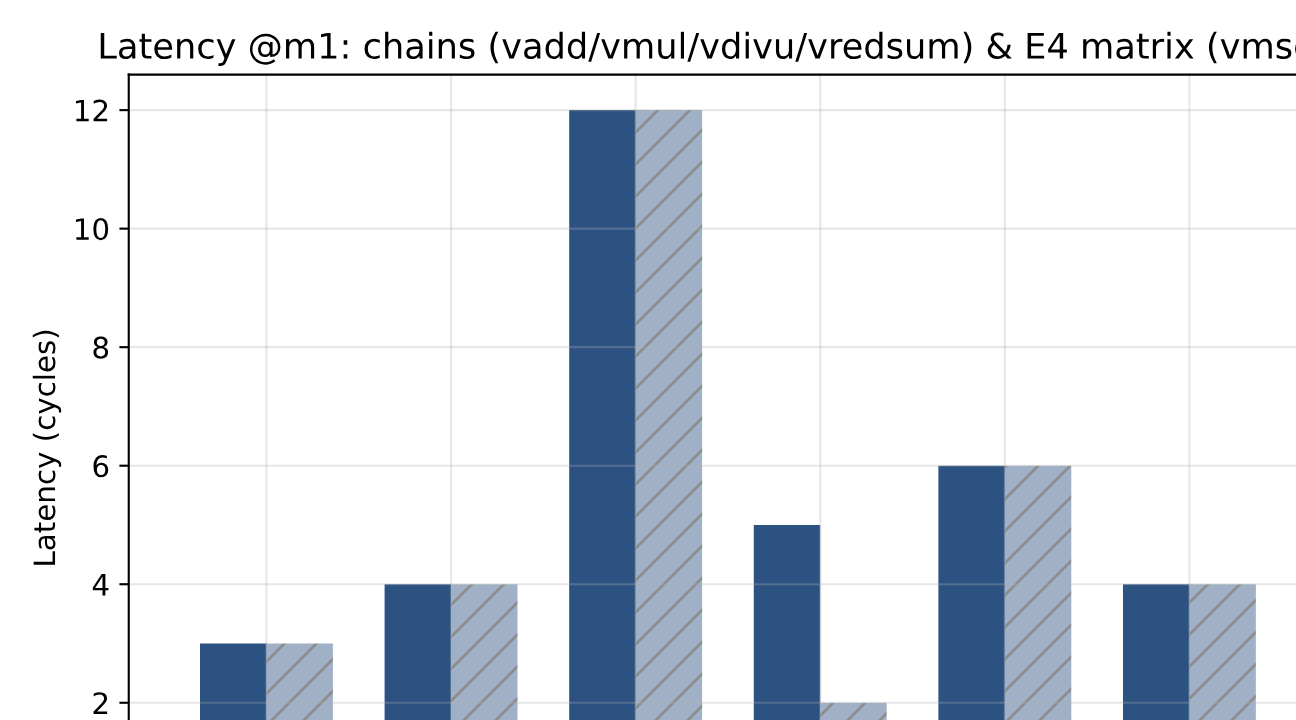
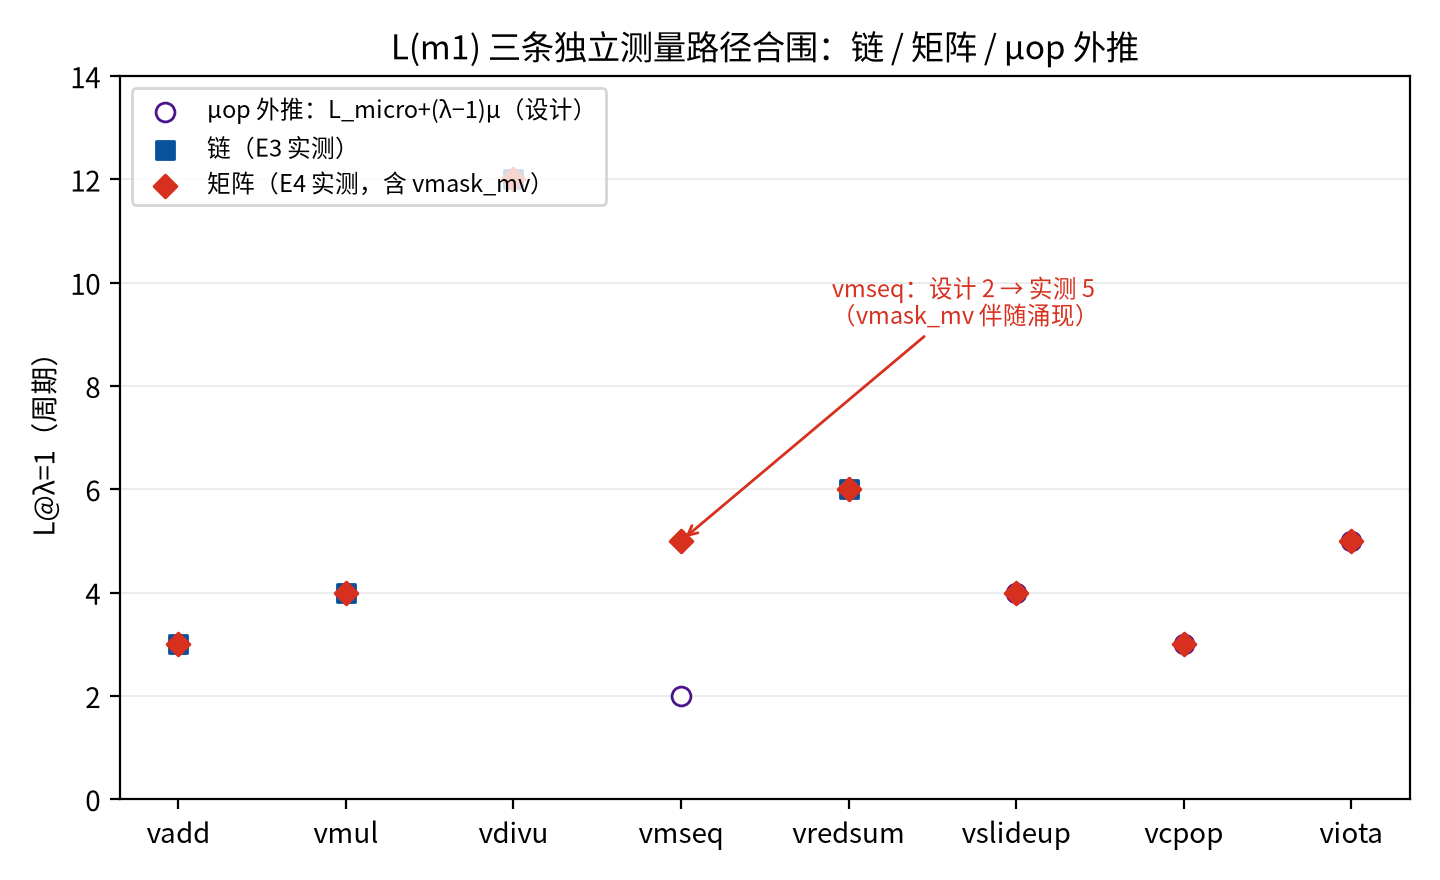
redraw remaining 3 matplotlib figures (latency_m1 three-path convergence, matrix_heat normalized E4 heatmap from real traces, mca_vs_gem5 per-LMUL alignment parsed from live llvm-mca -resource-pressure on new tests/all_instr_lmuls.s); all vision-verified: complete canvas, no tofu, divergence annotat

diff --git a/scripts/make_figs.py b/scripts/make_figs.py
@@ -112,4 +112,135 @@ ax.legend(handles=[
 fig.tight_layout()
 fig.savefig(os.path.join(OUT, 'design_vs_measured.png'))
 plt.close(fig)
-print('wrote stream_nscan.png & design_vs_measured.png ->', OUT)
+
+# ------------------------------------------------------------------ fig 3
+# latency_m1: three independent paths converge on the same L@lambda=1.
+CHAIN_L1 = {'vadd_vv': 3, 'vmul_vv': 4, 'vdivu_vv': 12, 'vredsum_vs': 6}
+# E4 canonical measured L@lambda=1 (vmask_mv-aware analysis; evidence files
+# e04-vmseq_vv-x-*, e04-vslideup_vx-*, e04-vcpop_m-x-*, e04-viota_m-*).
+MATRIX_L1 = {'vadd_vv': 3, 'vmul_vv': 4, 'vdivu_vv': 12, 'vmseq_vv': 5,
+             'vredsum_vs': 6, 'vslideup_vx': 4, 'vcpop_m': 3, 'viota_m': 5}
+fig, ax = plt.subplots(figsize=(7.2, 4.4), dpi=200)
+xs = range(len(INSTRS))
+muop = [m.R(i, 'm1') * 0 + m.L(i, 'm1') for i in INSTRS]   # design formula
+ax.scatter(xs, muop, marker='o', facecolors='white', edgecolors='#4a148c',
+           s=46, label='μop 外推：L_micro+(λ−1)μ（设计）', zorder=3)
+cx = [i for i, k in enumerate(INSTRS) if k in CHAIN_L1]
+ax.scatter(cx, [CHAIN_L1[k] for k in INSTRS if k in CHAIN_L1], marker='s',
+           color='#08519c', s=40, label='链（E3 实测）', zorder=4)
+ax.scatter(xs, [MATRIX_L1[k] for k in INSTRS], marker='D', color='#d7301f',
+           s=34, label='矩阵（E4 实测，含 vmask_mv）', zorder=4)
+i_vm = INSTRS.index('vmseq_vv')
+ax.annotate('vmseq：设计 2 → 实测 5\n（vmask_mv 伴随涌现）',
+            (i_vm, 5), xytext=(i_vm + 0.9, 9.2), fontsize=8.5, color='#d7301f',
+            arrowprops=dict(arrowstyle='->', color='#d7301f', lw=1))
+ax.set_xticks(list(xs))
+ax.set_xticklabels([LABEL[k] for k in INSTRS])
+ax.set_ylabel('L@λ=1（周期）')
+ax.set_title('L(m1) 三条独立测量路径合围：链 / 矩阵 / μop 外推')
+ax.set_ylim(0, 14)
+ax.grid(True, axis='y', alpha=.28, lw=.6)
+ax.legend(fontsize=8.5, loc='upper left')
+fig.tight_layout()
+fig.savefig(os.path.join(OUT, 'latency_m1.png'))
+plt.close(fig)
+
+# ------------------------------------------------------------------ fig 4
+# matrix_heat: normalized E4 RAW matrix, consumers (y) x producers (x).
+import glob
+from collections import defaultdict
+k0 = defaultdict(dict)
+for f in sorted(glob.glob(os.path.join(ROOT, 'experiments/e04-*-m1-k0-*', 'trace.json'))):
+    t = json.load(open(f)); meta = t['meta']; e = t['entries']
+    if any(x['cycle'] is None for x in e):
+        continue
+    k0[(meta['producer'], meta['consumer'])]['ctrl' if meta['control'] else 'dep'] = \
+        e[-1]['cycle'] - e[0]['cycle']
+raw = {}
+for (p, c), v in k0.items():
+    if 'dep' in v:
+        raw[(p, c)] = v['dep'] - v.get('ctrl', 1)
+CONS = [i for i in INSTRS]                       # y: consumers
+norm = [[(raw[(p, c)] - raw[('vcpop_m', c)]) if (p, c) in raw and ('vcpop_m', c) in raw
+         else float('nan') for p in INSTRS] for c in CONS]
+import numpy as np
+mat = np.array(norm, dtype=float)
+fig, ax = plt.subplots(figsize=(7.2, 5.0), dpi=200)
+im = ax.imshow(mat, cmap='YlGnBu', aspect='auto')
+ax.set_xticks(range(len(INSTRS)))
+ax.set_xticklabels([LABEL[k] for k in INSTRS], rotation=30, ha='right')
+ax.set_yticks(range(len(CONS)))
+ax.set_yticklabels([LABEL[k] for k in CONS])
+for yi in range(len(CONS)):
+    for xi in range(len(INSTRS)):
+        v = mat[yi, xi]
+        if np.isnan(v):
+            ax.text(xi, yi, '—', ha='center', va='center', color='#999999', fontsize=9)
+        else:
+            ax.text(xi, yi, f'{v:.0f}', ha='center', va='center', fontsize=8.5,
+                    color='white' if v > np.nanmax(mat) * 0.55 else '#222')
+ax.set_xlabel('生产者（producer）')
+ax.set_ylabel('消费者（consumer）')
+ax.set_title('E4 归一化 RAW 矩阵（列基线 = vcpop 行）：同管簇低 / 跨管簇高')
+fig.colorbar(im, ax=ax, label='有效 RAW（周期）', shrink=.85)
+fig.tight_layout()
+fig.savefig(os.path.join(OUT, 'matrix_heat.png'))
+plt.close(fig)
+
+# ------------------------------------------------------------------ fig 5
+# mca_vs_gem5: llvm-mca -resource-pressure (model R) vs gem5 measured R.
+import subprocess
+LLVM_MCA = '/home/zhaosiying/codebase/llvm-project/build/bin/llvm-mca'
+out = subprocess.run([LLVM_MCA, '-mtriple=riscv64', '-mcpu=YuShuXinV2',
+                      '-resource-pressure',
+                      os.path.join(ROOT, 'tests/all_instr_lmuls.s')],
+                     capture_output=True, text=True, check=True).stdout
+sec = out.split('Resource pressure by instruction:')[1]
+mca_R = defaultdict(dict)
+cur_lm = None
+for line in sec.splitlines():
+    if 'vsetvli' in line:
+        cur_lm = line.split('e32, ')[1].split(',')[0]
+    for k in INSTRS:
+        asm_name = {'vadd_vv': 'vadd.vv', 'vmul_vv': 'vmul.vv', 'vdivu_vv': 'vdivu.vv',
+                    'vmseq_vv': 'vmseq.vv', 'vredsum_vs': 'vredsum.vs',
+                    'vslideup_vx': 'vslideup.vx', 'vcpop_m': 'vcpop.m',
+                    'viota_m': 'viota.m'}[k]
+        if asm_name + '\t' in line:
+            cells = line.split(asm_name)[0].split()
+            try:
+                v = max(float(c) for c in cells if c not in ('-',))
+            except ValueError:
+                continue
+            mca_R[k][cur_lm] = v
+fig, ax = plt.subplots(figsize=(7.2, 4.4), dpi=200)
+for i, k in enumerate(INSTRS):
+    for lm, dx in LMULS:
+        mv = mca_R[k].get(lm)
+        gv = meas[k]['R'][lm]
+        if mv is None:
+            continue
+        x = i + dx
+        if mv != gv:
+            ax.plot([x, x], [mv, gv], color='#d7301f', lw=2.2, zorder=2)
+        ax.scatter([x], [mv], facecolors='white', edgecolors='#555', s=30, zorder=3)
+        ax.scatter([x], [gv], color='#7a0177', s=30, zorder=3)
+i_io = INSTRS.index('viota_m')
+ax.annotate('viota m4：模型 4（保守整数）vs 实测 3（分数 5/2 有界）',
+            (i_io + 4.2, 4), xytext=(i_io - 3.4, 12), fontsize=8.5, color='#d7301f',
+            arrowprops=dict(arrowstyle='->', color='#d7301f', lw=1))
+ax.set_xticks(range(len(INSTRS)))
+ax.set_xticklabels([LABEL[k] for k in INSTRS])
+ax.set_ylabel('R（周期/条，log 轴）')
+ax.set_title('llvm-mca（模型，-resource-pressure） vs gem5 实测：R 逐指令对表')
+ax.set_yscale('log')
+ax.grid(True, axis='y', which='both', alpha=.28, lw=.6)
+ax.legend(handles=[
+    Line2D([], [], marker='o', ls='', mfc='white', mec='#555', label='llvm-mca / .td 模型 R'),
+    Line2D([], [], marker='o', ls='', color='#7a0177', label='gem5 实测 R（E2 反演）'),
+    Line2D([], [], color='#d7301f', lw=2.2, label='分差（viota 保守整数落地）'),
+], fontsize=8.5, loc='upper left')
+fig.tight_layout()
+fig.savefig(os.path.join(OUT, 'mca_vs_gem5.png'))
+plt.close(fig)
+print('wrote 4 figures ->', OUT)
